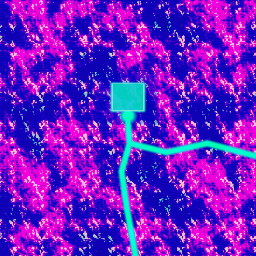
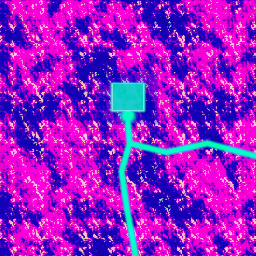
Локация: светлая естественная земля, валуны с каменной текстурой, сборка 21
- земля: трава forrest_ground_01 + leafy_grass, сухая земля grass_path_2, тропа rocky_trail (Poly Haven, CC0);
  травы больше, общая гамма светлее; карта земли пересчитана
- валуны: неровная форма (шар, помятый шумом) и текстура rock_boulder_dry
- пучки травы в тон лугу, свет окружения ярче, стены дома светлее

Claude-Session: https://claude.ai/code/session_012mFYCmtNnDBPzGE6DVCLqL

diff --git a/stand/docs/WORLD.md b/stand/docs/WORLD.md
@@ -182,10 +182,11 @@
 ## Источники
 - Модели дома, ящика, сосны, берёзы, яблони, куста, набора припасов — Tripo AI, аккаунт пользователя
   (`tools/tripo/budget.md`).
-- Текстуры — Poly Haven, CC0 (`assets/world/tex/`): forrest_ground_01 (трава), sparse_grass (травинки),
-  mud_forest (лесная почва), stony_dirt_path (тропа с галькой), old_planks_02 (серые доски забора),
+- Текстуры — Poly Haven, CC0 (`assets/world/tex/`): forrest_ground_01 и leafy_grass (трава), grass_path_2 (сухая
+  земля), rocky_trail (галечная тропа), rock_boulder_dry (валуны), old_planks_02 (серые доски забора),
   bark_brown_02 (кора), dry_ground_01, rocky_gravel, weathered_brown_planks, brown_planks_03 (дом внутри),
-  weathered_plank_siding (стены дома снаружи), worn_corrugated_iron (кровля).
+  weathered_plank_siding (стены дома снаружи), worn_corrugated_iron (кровля). Гамма светлая: зелёный луг
+  с проплешинами сухой земли, а не тёмная лесная почва.
 - Откуда брать текстуры дальше: Poly Haven (polyhaven.com) и ambientCG (ambientcg.com) — обе библиотеки CC0
   (можно в коммерческой игре, без указания автора), обе доступны из сборочной среды. Модели Tripo с размытой
   раскраской улучшаются тем же приёмом, что дом: чёткая фототекстура поверх, раскраска модели — как светлота.
